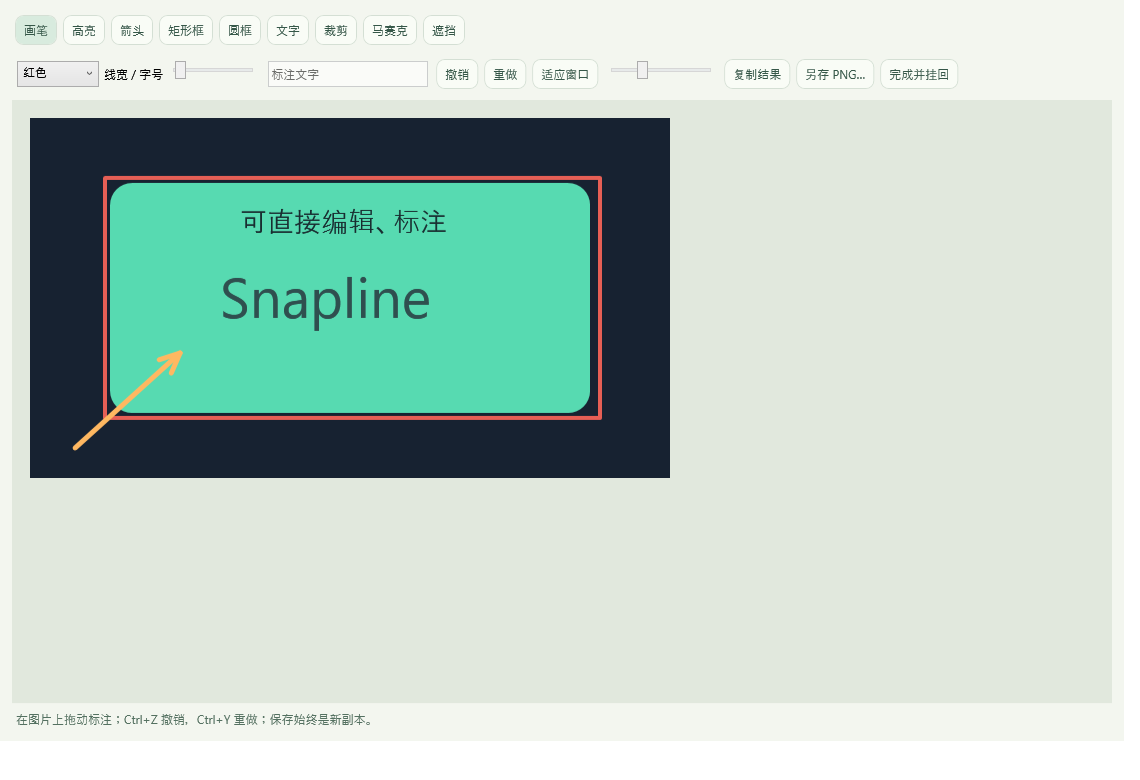
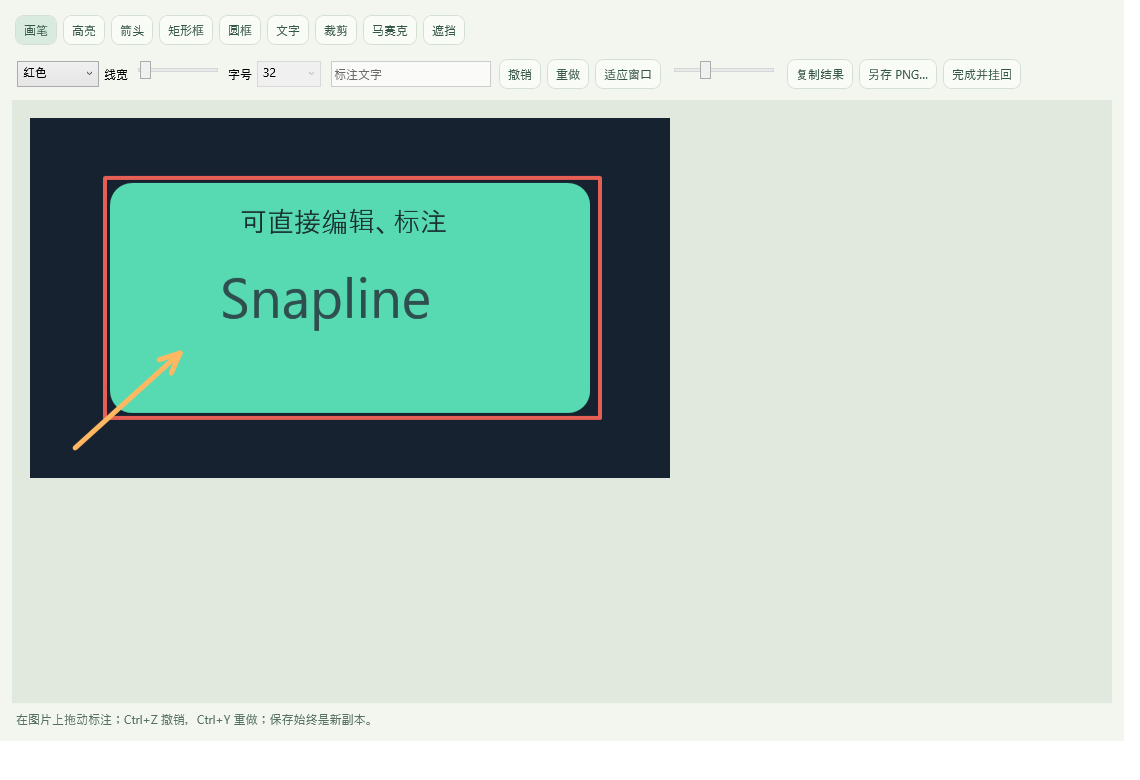
docs: refresh editor preview and latest isolated verification

diff --git a/docs/TEST-RESULTS-image-editor-pr.md b/docs/TEST-RESULTS-image-editor-pr.md
@@ -1,7 +1,7 @@
 # Built-in image-editor feature PR validation
 
 Base main `0852cef`, branch `feat/image-editor`, Windows x64 / .NET 10.0.402, 2026-10-14.
-Scope: nine local tools (pen/highlight/arrow/rectangle/ellipse/text/crop/mosaic/opaque cover), color/width,
+Scope: nine local tools (pen/highlight/arrow/rectangle/ellipse/text/crop/mosaic/opaque cover), color/width/independent text size,
 zoom/fit, undo/redo, new flattened PNG export, edited-image copy callback, preview/context-menu entry.
 No rotation, output resampling/JPEG compression, vector-layer project format or existing-mark selection/move.
 
@@ -11,7 +11,7 @@ No rotation, output resampling/JPEG compression, vector-layer project format or 
 |---|---|---|
 | Core | PASS, 114 checks | 25 new editor state/crop/validation/history cases plus previous 89 |
 | WPF/E2E harness compilation | PASS, 0 warnings/errors | dotnet build |
-| Development isolated generated-data/native/UI/render | PASS, 140 checks | docs/design/image-editor-pr.json; artifacts/test-runs/20261014-103937-motion/ |
+| Development isolated generated-data/native/UI/render | PASS, 140 checks | docs/design/image-editor-pr.json; artifacts/test-runs/20261014-104839-motion/ |
 | Physical mouse/clipboard/native-dialog E2E | NOT_RUN | No keyboard/mouse/clipboard intervention authorized |
 | Large image/DPI/font/codec coverage | NOT_RUN | Manual checklist in TESTING.md |
 
